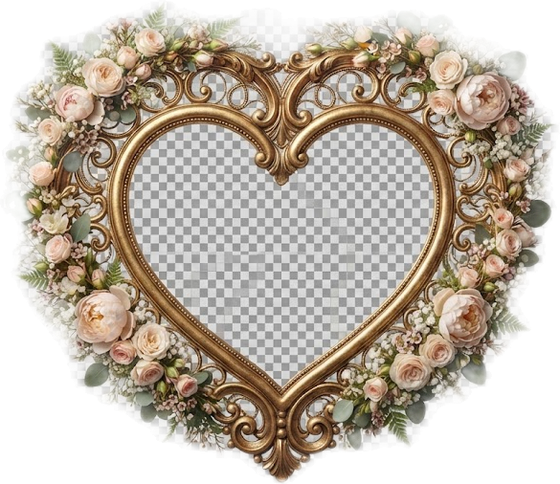
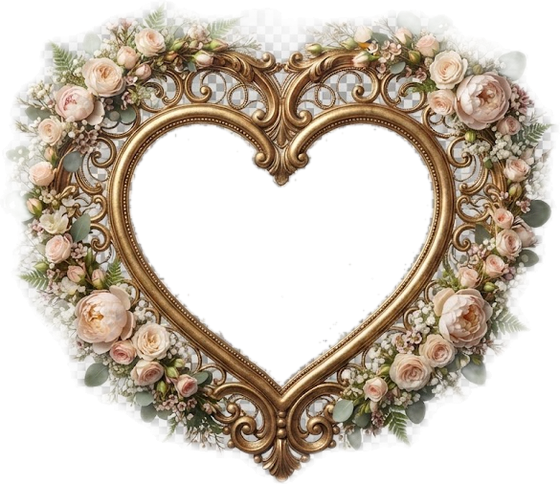
Fix heart frame image: transparency checkerboard was baked into the PNG

Changed region(s): [[0.2125, 0.2479, 0.7893, 0.8058]]

diff --git a/taklif/tests/test_shablon_uslubi.py b/taklif/tests/test_shablon_uslubi.py
@@ -55,3 +55,38 @@ class PardaUslubiTest(TestCase):
                     matn.index(":root {"), matn.index(UMUMIY),
                     f"{fayl.name}: include ':root' dan oldin turibdi",
                 )
+
+
+class PardaRamkasiTest(TestCase):
+    """Yurak ramkasi tasvirining ichi SHAFFOF bo'lishi shart.
+
+    NEGA TEST KERAK. "yurak-ramka-gulli.png" fayli bir marta shaffoflik
+    SHAXMAT KATAKLARI bilan birga eksport qilingan edi — ya'ni tahrirlash
+    dasturi shaffoflikni ko'rsatish uchun chizadigan kulrang kataklar
+    rasmning ichiga "pishib" qolgan. Natijada har bir mijozning
+    taklifnomasi ochilish ekranida ismlar o'rniga kulrang shaxmat
+    ko'rinardi. Ko'z bilan qarab buni "shunday bo'lishi kerak"
+    deb o'ylash oson, shuning uchun tekshiruv avtomatlashtirildi.
+    """
+
+    RAMKALAR = ["yurak-ramka.png", "yurak-ramka-gulli.png"]
+
+    def test_ramka_ichi_shaffof(self):
+        from PIL import Image
+
+        papka = Path(settings.BASE_DIR) / "taklif" / "static" / "taklif" / "parda-ikona"
+        for nom in self.RAMKALAR:
+            fayl = papka / nom
+            if not fayl.exists():
+                continue
+            with self.subTest(ramka=nom):
+                im = Image.open(fayl).convert("RGBA")
+                w, h = im.size
+                # markazdagi kichik maydon — yurakning ichi
+                markaz = im.crop((w // 2 - 15, h // 2 - 15, w // 2 + 15, h // 2 + 15))
+                eng_katta_alfa = max(p[3] for p in markaz.getdata())
+                self.assertLess(
+                    eng_katta_alfa, 10,
+                    f"{nom}: yurak ichi shaffof emas (alfa={eng_katta_alfa}). "
+                    "Ehtimol shaffoflik kataklari rasmga eksport qilingan.",
+                )
